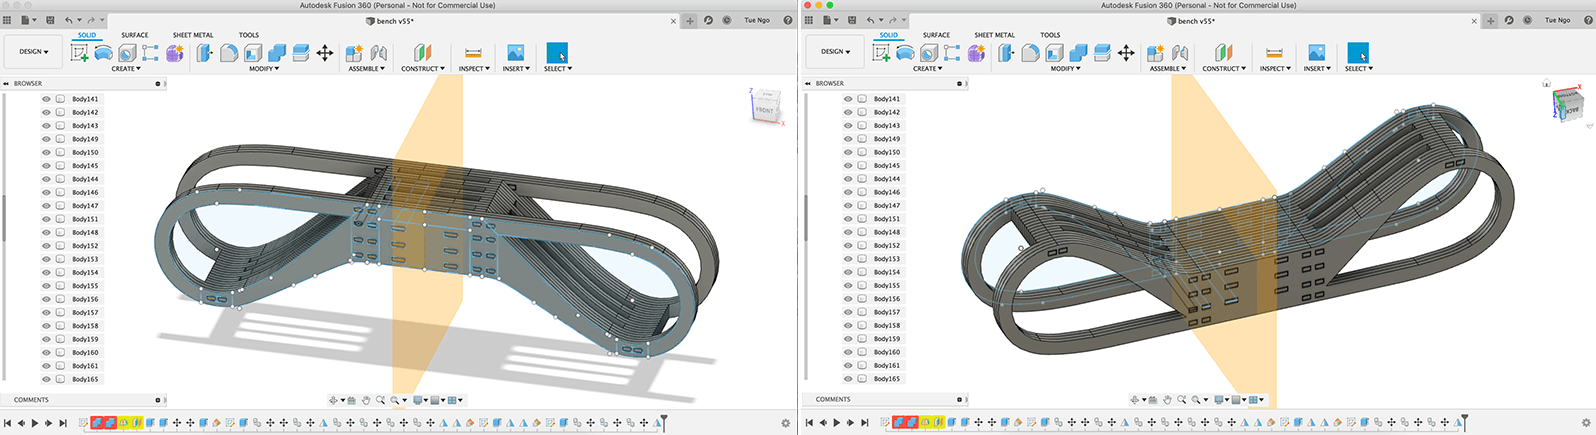
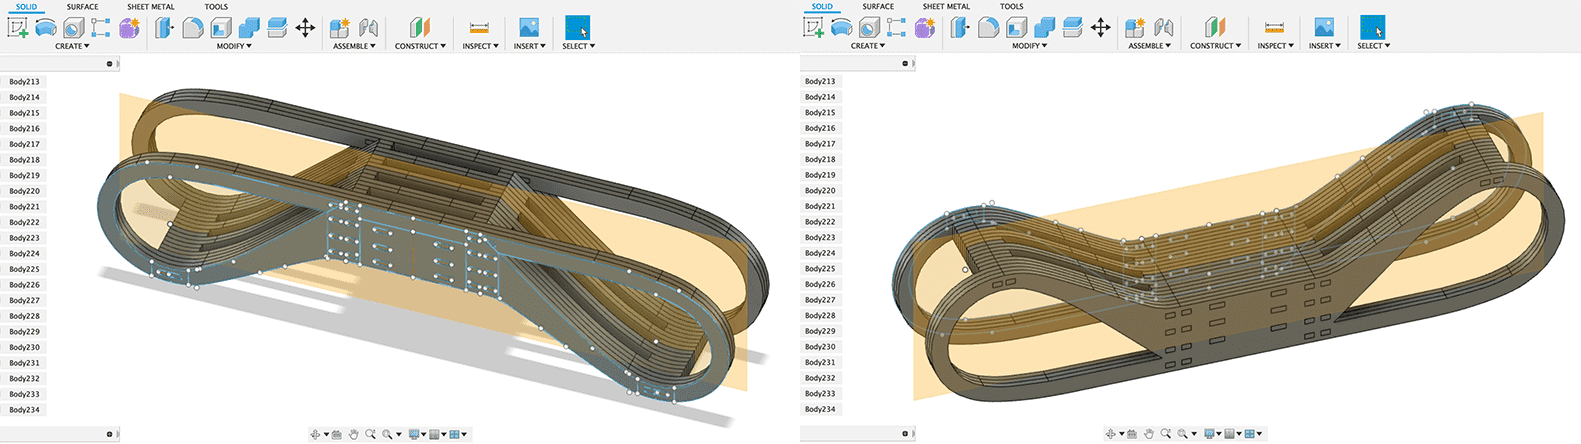
Add week 8 content

diff --git a/_assignments/week-07-computer-controlled-machining.md b/_assignments/week-07-computer-controlled-machining.md
@@ -5,25 +5,37 @@ thumb: 08.png
 assignment: test run-out, alignment, speeds, feeds, and toolpaths of the CNC machine (in-group); to make something big (individual). 
 active: 1
 ---
-<p class="font-italic font-weight-bold">* All GCODE, STL and original editable files can be downloaded <a href="https://gitlab.fabcloud.org/academany/fabacademy/2020/labs/barcelona/students/tue-ngo/tree/master/assets/img/big">here</a>.</p>
+<p class="font-italic font-weight-bold">* All GCODE, STL, DXF and original editable files can be downloaded <a href="https://gitlab.fabcloud.org/academany/fabacademy/2020/labs/barcelona/students/tue-ngo/tree/master/assets/img/big">here</a>.</p>
 
 <p class="font-italic font-weight-bold">* This week's group assignment was to test the <a href="#group">feeds, speeds and toolpaths</a> of the CNC machine with a chosen material.</p>
 
 <p class="font-italic font-weight-bold">* I needed to individually <a href="#big">design, mill and assemble</a> something big.</p>
 
-<h2 id="assignment">CNC Machining</h2>
+<h2>CNC machining</h2>
+<p>Due to the COVID-19 outbreak situation, we had to confine ourselves at home right after the global class and couldn't get access to the lab by any means. Hence, my plan was to go ahead with designing the individual assignment first and prepare all possible CAM files, then when we can go back to the lab we would be ready to test, fabricate and assemble.</p>
 <h5 id="group">Group assignment - Test the CNC machine</h5>
+<p class="font-italic font-weight-bold">* To be developed after the COVID-19 pandemic.</p>
 <h5 id="big">Individual assignment - Make something big</h5>
+<p>I decided to design <strong>a 180 x 46 x 30cm bench</strong> using Fusion 360. Rhino, RhinoCAM and Aspire CAM were introduced by the instructors, however, after researching online, I learned that I can generate toolpaths for a ShopBot using Fusion 360 CAM. So, why not?</p>
 <h6>Designing with Fusion 360</h6>
-<img src="{{site.baseurl}}/assets/img/assignments/week-07/fusion-1.png" class="img-fluid w-100"/>
-<p></p>
-<div class="text-center">
-<iframe width="640" height="480" src="https://www.youtube.com/embed/3B-x6lweiaA" frameborder="0" allow="accelerometer; autoplay; encrypted-media; gyroscope; picture-in-picture" allowfullscreen></iframe>
-</div>
-<p></p>
-<img src="{{site.baseurl}}/assets/img/assignments/week-07/fusion-2.png" class="img-fluid w-100"/>
-<p>I realized I made a mistake by adding a 0.3cm kerf instead of 0.03cm (I better use mm unit next time though), and that was why the clearance was too big. Then I modified that value to have the final design.</p>
+<p>The very first thing I need to know was the canvas size and thickness of available materials at Fab Lab Barcelona. Since measuring materials and doing a press-fit test was impossible during the quarantine, I had to talk to Josep and also took a look at alumnus' websites. Based on gathered information (2500 x 1250mm plywood, 9mm and 15mm thickness, 0.2 - 0.3mm tolerance), I assumed some below parameters (which can be modified after I get access to the lab):</p>
 <img src="{{site.baseurl}}/assets/img/assignments/week-07/fusion-0.png" class="img-fluid w-100"/>
+<p>I made a mistake by putting a 0.3cm kerf instead of 0.03cm, and that was why the clearance was too big. Fortunately, I could easily modify it by changing the parameter. Long live parametric design! And I better stick with mm unit in the future!</p>
+<img src="{{site.baseurl}}/assets/img/assignments/week-07/fusion-1.png" class="img-fluid w-100"/>
+<p>A summary of what I did:</p>
+<ul>
+<li>Defining parameters: what I did above.</li>
+<li>Planning the possible joints: I indeed tried to apply +2 types of joint in my design. Some useful reference links for CNC-able joints: the classic <a href="http://winterdienst.info/50-digital-wood-joints-by-jochen-gros/">50 Digital Wood Joint</a> and this <a href="https://www.instagram.com/thejoinery_jp/?hl=en"><i>satisfying</i> collection of Japanese-styled joints.</a> However, my design was more about "stacking" parallel layers of wood instead of joining perpendicular parts. Besides, some joints I'd like to try (tongue and groove, tenon and mortise) could not be done since we are limited to only perform one-sided cuts. Therefore I came to the conclusion that the best thing I could do would be to create wooden poles that go through all layers, and for the external layers applying a pocketing strategy to get invisible joints. Anyway, big thanks to Josep, Santi, Nuria Robles (from Fab Lab Leon) and Edu Segovia (from Fab Lab IED) for sending me tons of inspirations! Muy apreciado!</li>
+<li>Modeling the joints first while paying attention to the kerf.</li>
+<li>Adding layers: by creating extrusions and moving/copying/mirroring bodies.</li>
+<li>I also exported a <code>.dxf</code> files in order to make a small prototype which will be done by laser-cutting cardboard.</li>
+</ul>
+<p>Below is the video recording the design process:</p>
+<div class="text-center">
+<iframe width="640" height="480" src="https://www.youtube.com/embed/Ry19FoO0_KU" frameborder="0" allow="accelerometer; autoplay; encrypted-media; gyroscope; picture-in-picture" allowfullscreen></iframe>
+</div>
+<p>This is how my bench should look like after being assembled. If everything goes well, I would be able to sit comfortably on the bench or turn it upside down, lie on it and take a nap during the classes ;)</p>
+<img src="{{site.baseurl}}/assets/img/assignments/week-07/fusion-2.png" class="img-fluid w-100"/>
 <p>Ready to unfold!</p>
 <div class="sketchfab-embed-wrapper text-center">
     <iframe title="A 3D model" width="640" height="480" src="https://sketchfab.com/models/21619fa2c32543cdad340cab2d96781c/embed?preload=1&amp;ui_controls=1&amp;ui_infos=1&amp;ui_inspector=1&amp;ui_stop=1&amp;ui_watermark=1&amp;ui_watermark_link=1" frameborder="0" allow="autoplay; fullscreen; vr" mozallowfullscreen="true" webkitallowfullscreen="true"></iframe>
@@ -33,12 +45,21 @@ active: 1
         on <a href="https://sketchfab.com?utm_medium=embed&utm_source=website&utm_campaign=share-popup" target="_blank" style="font-style: italic; font-weight: bold; color: #1CAAD9;">Sketchfab</a>
     </p>
 </div>
-<h6>Prototyping and press-fit test</h6>
+<p>In order to test the tolerance/kerf, I prepared a simple press-fit test in Fusion 360 with these following values of kerf width: 0.1mm, 0.2mm, 0.3mm, 0.4mm and 0.5mm. <strong>NOTE:</strong> kerf width=0.3mm means to allow an offset of 0.15mm from each side to make a perfect fit.</p></p>
+<img src="{{site.baseurl}}/assets/img/assignments/week-07/fusion-3.png" class="img-fluid w-100"/>
+<p></p>
+<h6>Stability and press-fit test</h6>
+<p class="font-italic font-weight-bold">* To be developed after the COVID-19 pandemic.</p>
 <p></p>
 <h6>CNC routing with Fusion 360 CAM</h6>
 <p></p>
 <h6>Machining with ShopBot</h6>
+<p class="font-italic font-weight-bold">* To be developed after the COVID-19 pandemic.</p>
 <p></p>
+<h6>Final result</h6>
+<p class="font-italic font-weight-bold">* To be developed after the COVID-19 pandemic.</p>
+<p></p>
+<!--<h5>Conclusion</h5>-->
 
 <div class="container w-100 text-center py-4">
 <a class="btn m-2" href="http://academany.fabcloud.io/fabacademy/2020/labs/barcelona/students/tue-ngo/assignments/week-06-electronics-design.html">Previous Assignment</a>

diff --git a/_assignments/week-05-3d-printing-and-scanning.md b/_assignments/week-05-3d-printing-and-scanning.md
@@ -92,7 +92,7 @@ active: 1
 <ul>
 <li>Layer height: 0.2mm. The thinner the layer, the more detailed the result, and the longer the total printing time. We chose 0.2mm for the tests to get a more delicate result.</li>
 <li>Wall thickness: 0.8mm - usually double the size of nozzle diameter because we generally print with two shells: one for inside and one for outside.</li>
-<li>Infill density: 10% - Infill pattern: Grid. Infill is a repetitive structure used to fill the empty space in a print. A high infill density can make the printing time longer and the outcome heavier and more rigid. In the case of printing assembles, a higher infill density is recommended.</li>
+<li>Infill density: 10% - Infill pattern: Grid. Infill is a repetitive structure used to fill the empty space in a print. A high infill density can make the printing time longer and the outcome heavier and more rigid. In the case of printing solid constructible parts, a higher infill density is recommended.</li>
 <li>Print speed: 60mm/s. The lower the speed, the finer the outcome.</li>
 <li>Support: not in this case, but we might need to generate a <a href="https://ultimaker.com/en/resources/52663-support">support</a> structure under the model in order to prevent the material from falling down when it comes to large overhang angles.</li>
 </ul>
@@ -205,16 +205,16 @@ active: 1
 
 <h5>Conclusion</h5>
 <h6>Additive vs. Subtractive CAM</h6>
-<p>Things I like about 3D printing:</p>
+<strong>Things I like about 3D printing:</strong>
 <ul>
 <li>Avoiding material waste</li>
-<li>Ability to design more complex objects with fewer constraints</li>
+<li>Ability to design more complex objects without being brain-tangled while unfolding the design from 3D to 2D</li>
+<li>Somehow somewhat, fewer constraints</li>
 </ul>
-<p>Things I wish 3D printing could match subtractive techniques:</p>
+<strong>Things I wish 3D printing could match subtractive techniques:</strong>
 <ul>
 <li>More precise tolerances</li>
 <li>Better surface quality</li>
-<li>Faster process for small prototypes</li>
 <li>Lack of suitability for mass production</li>
 </ul>
 <h6>Design rules for FDM printers</h6>

diff --git a/_assignments/week-03-computer-controlled-cutting.md b/_assignments/week-03-computer-controlled-cutting.md
@@ -79,14 +79,14 @@ active: 1
 <img src="{{site.baseurl}}/assets/img/assignments/week-03/laser-4.jpg" class="img-fluid w-100"/>
 <p></p>
 <h6>What I personally learned</h6>
-<p>Translational speed, laser power, and cutting kerf:</p>
+<strong>Translational speed, laser power, and cutting kerf:</strong>
 <ul>
 <li>Cutting kerf width is the width of material that is removed by the laser beam during a cutting process. Kerf width depends on many parameters, such as the thickness of the material (the thicker the material, the thinner the kerf), type of material (for example, I assumed that acrylic and other materials with low melting point will tend to create bigger kerf), the machine itself, the focus of the beam, and the settings of power, speed, and frequency.</li>
 <li>The delicate balance between translational speed and laser power defines the quality of the cut as well as the kerf width. We should abuse neither power nor speed.</li>
 <li>As power increases, the energy in the laser increases, which will result in a deeper cut and a bigger kerf. High power could also make more smoke and charred edges. So, power is a necessity to reach a required cutting or engraving depth, but over-using it is quite destructive to our materials.</li>
 <li>As speed increases, the energy is exposed to a point in a shorter time, which will result in a shallower, unstable cut and a thinner kerf. Increasing speed will also quicken the cutting time.</li>
 </ul>
-<p>Tips to laser-cut like a boss:</p>
+<strong>Tips to laser-cut like a boss:</strong>
 <ul>
 <li>Safety first: the laser-cutters cannot be left unattended, and the air ventilation should always be switched on.</li>
 <li>We need to test the proper settings for the chosen material and machine: power, speed, resolution (for raster engraving) and frequency (for vector cutting)</li>

diff --git a/_assignments/week-04-electronics-production.md b/_assignments/week-04-electronics-production.md
@@ -177,7 +177,7 @@ active: 1
 <img src="{{site.baseurl}}/assets/img/assignments/week-04/solder-3.jpg" class="img-fluid w-100"/>
 <p>However, when I tried to test it with other computers, it couldn't be detected. After checking whether all connections are in beep-beep mode once again as Oscar suggested, I put more solder to one of the resistors, and finally, the board was detected on my Macbook!</p>
 <img src="{{site.baseurl}}/assets/img/assignments/week-04/solder-4.jpg" class="img-fluid w-100"/>
-<p>Things I learned during the soldering process:</p>
+<strong>Things I learned during the soldering process:</strong>
 <ul>
 <li>Be careful of the soldering order. Make sure it's easy to access all components inside out, and none of them will be over-heated.</li>
 <li> To have easier access to the components, I used double-sided tape to fix the board to the table.</li>
